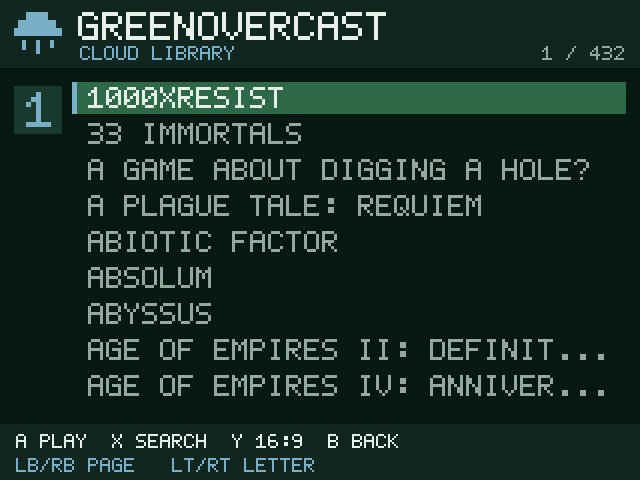
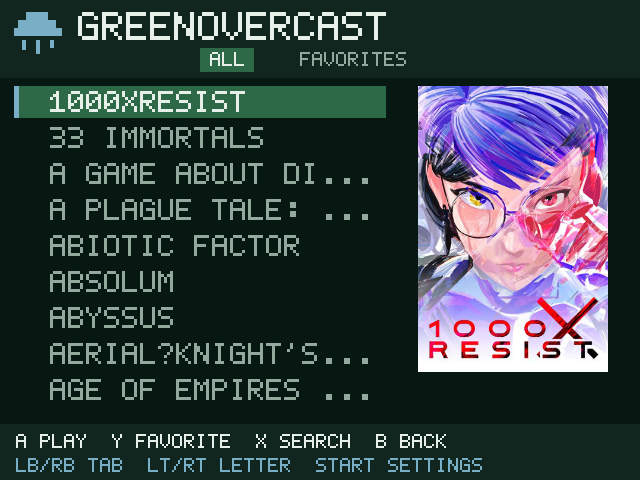
docs: update controls and supported devices

diff --git a/README.md b/README.md
@@ -3,10 +3,8 @@
 <img width="640" height="480" alt="screenshot" src="https://github.com/user-attachments/assets/4ec93eeb-8795-44e5-9ba8-c6065adf4660" />
 
 GreenOvercast is a native Xbox Cloud Gaming client for small ARM64 Linux
-handhelds. It streams at 720p and uses hardware video decoding on supported
-H700 and Rockchip firmware.
-
-Built for the Anbernic RG35XX-H (muOS) and validated on the RG40XX-H (Knulli).
+handhelds. It requests a stream matching the device display and uses hardware
+video decoding on supported H700 and Rockchip firmware.
 
 This independent project is not affiliated with or endorsed by Microsoft.
 
@@ -23,41 +21,42 @@ GreenOvercast from Ports.
 
 The first launch shows a Microsoft device code. Open
 [microsoft.com/link](https://www.microsoft.com/link) on another device and enter
-the code to sign in. Knulli asks you to sign in again after a reboot.
+the code to sign in.
 
 GreenOvercast is experimental.
 
 ## Controls
 
-| Button             | Action                                      |
-| ------------------ | ------------------------------------------- |
-| D-pad / Left Stick | Navigate                                    |
-| A                  | Select                                      |
-| B                  | Back                                        |
-| X                  | Open search / delete a letter               |
-| Y                  | Change aspect ratio / clear search          |
-| L1 / R1            | Xbox LB / RB                                |
-| L2 / R2            | Xbox LT / RT                                |
-| Start              | Apply search / Xbox Menu                    |
-| Select             | Xbox View                                   |
-| L3 + R3            | Xbox Guide                                  |
-| Select + Start     | Exit GreenOvercast after holding one second |
+| Button             | Library / menus                   | In game                           |
+| ------------------ | --------------------------------- | --------------------------------- |
+| D-pad / Left Stick | Navigate; hold to scroll faster   | Movement                          |
+| A                  | Select, play, or type              | Xbox A                            |
+| B                  | Back or cancel                    | Xbox B                            |
+| X                  | Search or delete a letter         | Xbox X                            |
+| Y                  | Favorite a game or clear search   | Xbox Y                            |
+| L1 / R1            | Switch All / Favorites            | Xbox LB / RB                      |
+| L2 / R2            | Jump by first letter              | Xbox LT / RT                      |
+| Start              | Settings or apply search          | Xbox Menu                         |
+| Select             | —                                 | Xbox View                         |
+| L3 + R3            | —                                 | Xbox Guide                        |
+| Select + Start     | Exit after holding for one second | Exit after holding for one second |
 
-In-game controls use the standard Xbox controller layout.
-
-The aspect-ratio setting applies to the next game you start. Most games only
-support 16:9.
+Settings include Xbox/Nintendo face-button layouts, game artwork, and Sign
+out. Games that return a 16:9 stream remain letterboxed on 4:3 displays.
 
 ## Supported devices
 
-| Device   | OS                   | Status |
-| -------- | -------------------- | ------ |
-| RG35XX-H | muOS 2508.4          | Tested |
-| RG40XX-H | Knulli (Batocera 42) | Tested |
+| Device     | OS                              | Status |
+| ---------- | ------------------------------- | ------ |
+| RG35XX-H   | muOS 2508.4                     | Tested |
+| RG40XX-H   | Knulli (Batocera 42)            | Tested |
+| RG40XX-H   | ROCKNIX 20260801                | Tested |
+| Miyoo Flip | SpruceOS 4.2.0                  | Tested |
 
-Rockchip MPP decoding also works on ROCKNIX, but support depends on the device
-and firmware. Other devices fall back to software decoding, which is too slow
-for normal gameplay.
+Hardware decoding is verified on the H700 systems above. muOS and Knulli use
+CedarX; ROCKNIX 20260801 uses the bundled Cedrus modules. Tested Rockchip builds
+use Rockchip MPP on RK3566 with SpruceOS. Other devices fall back to software
+decoding, which is too slow for normal gameplay.
 
 The release requires glibc 2.38 or newer. ArkOS ships glibc 2.30 and is not
 supported.
@@ -68,26 +67,23 @@ You need a Linux or macOS host with `cmake`, `curl`, `git`, `make`, `patch`,
 `perl`, and `python3`.
 
 ```sh
-tools/bootstrap.sh           # fetch Zig 0.14.1
-tools/zig.sh build smoke     # cross-build the aarch64 smoke binary
-tools/zig.sh build product-check # compile the Zig product modules
-tools/zig.sh build test      # host unit tests
-tools/zig.sh build fmt-check # format check
+tools/bootstrap.sh
+tools/zig.sh build
+tools/zig.sh build test
+tools/zig.sh build fmt-check
 ```
 
-Build the release and PortMaster package with:
+Build the PortMaster package with:
 
 ```sh
-tools/build-release.sh
-PORTMASTER_NEW=/path/to/PortMaster-New tools/package-portmaster.sh
+PORTMASTER_NEW=/path/to/PortMaster-New tools/zig.sh build package
 ```
 
-I would recommend using a sparse checkout of [PortMaster-New](https://github.com/PortsMaster/PortMaster-New) because
-she's a big one. [Here is a great guide made by JeodC to help you with that](https://gist.github.com/JeodC/7a51211ad94ad6084d14042d80a62549).
+PortMaster-New is large. [JeodC's sparse-checkout guide](https://gist.github.com/JeodC/7a51211ad94ad6084d14042d80a62549)
+shows how to fetch only the files needed for packaging.
 
-`package-portmaster.sh` runs the current PortMaster-New checks and archive
-builder. To queue the finished archive for PortMaster's supported autoinstall
-flow:
+The package build runs the current PortMaster checks and archive builder. To
+queue the finished archive for PortMaster's supported autoinstall flow:
 
 ```sh
 tools/deploy.sh <ssh-host> zig-out/greenovercast.zip

diff --git a/packaging/portmaster/greenovercast/README.md b/packaging/portmaster/greenovercast/README.md
@@ -6,23 +6,27 @@ access.
 
 The first launch shows a Microsoft device code. Open
 `https://www.microsoft.com/link` on another device and enter the code to sign
-in. Knulli asks you to sign in again after a reboot.
+in.
 
-Tested on the RG35XX-H with muOS and the RG40XX-H with Knulli.
+Tested on the RG35XX-H with muOS, the RG40XX-H with Knulli and ROCKNIX
+20260801, and the Miyoo Flip with SpruceOS.
 The release requires glibc 2.38 or newer. ArkOS is not supported.
 
 ## Controls
 
-| Button             | Action                                            |
-| ------------------ | ------------------------------------------------- |
-| D-Pad / Left Stick | Navigate the library and keyboard / Xbox movement |
-| A                  | Select or type / Xbox A                           |
-| B                  | Back or cancel / Xbox B                           |
-| X                  | Open search or delete a letter / Xbox X           |
-| Y                  | Toggle 16:9/4:3 or clear search / Xbox Y          |
-| L1 / R1            | Xbox LB / RB                                      |
-| L2 / R2            | Xbox LT / RT                                      |
-| Start              | Apply a search / Xbox Menu                        |
-| Select             | Xbox View                                         |
-| L3 + R3            | Xbox Guide                                        |
-| Select + Start     | Exit GreenOvercast                                |
+| Button             | Library / menus                   | In game                           |
+| ------------------ | --------------------------------- | --------------------------------- |
+| D-Pad / Left Stick | Navigate; hold to scroll faster   | Movement                          |
+| A                  | Select, play, or type              | Xbox A                            |
+| B                  | Back or cancel                    | Xbox B                            |
+| X                  | Search or delete a letter         | Xbox X                            |
+| Y                  | Favorite a game or clear search   | Xbox Y                            |
+| L1 / R1            | Switch All / Favorites            | Xbox LB / RB                      |
+| L2 / R2            | Jump by first letter              | Xbox LT / RT                      |
+| Start              | Settings or apply search          | Xbox Menu                         |
+| Select             | —                                 | Xbox View                         |
+| L3 + R3            | —                                 | Xbox Guide                        |
+| Select + Start     | Exit after holding for one second | Exit after holding for one second |
+
+Settings include Xbox/Nintendo face-button layouts, game artwork, and Sign
+out. Games that return a 16:9 stream remain letterboxed on 4:3 displays.
